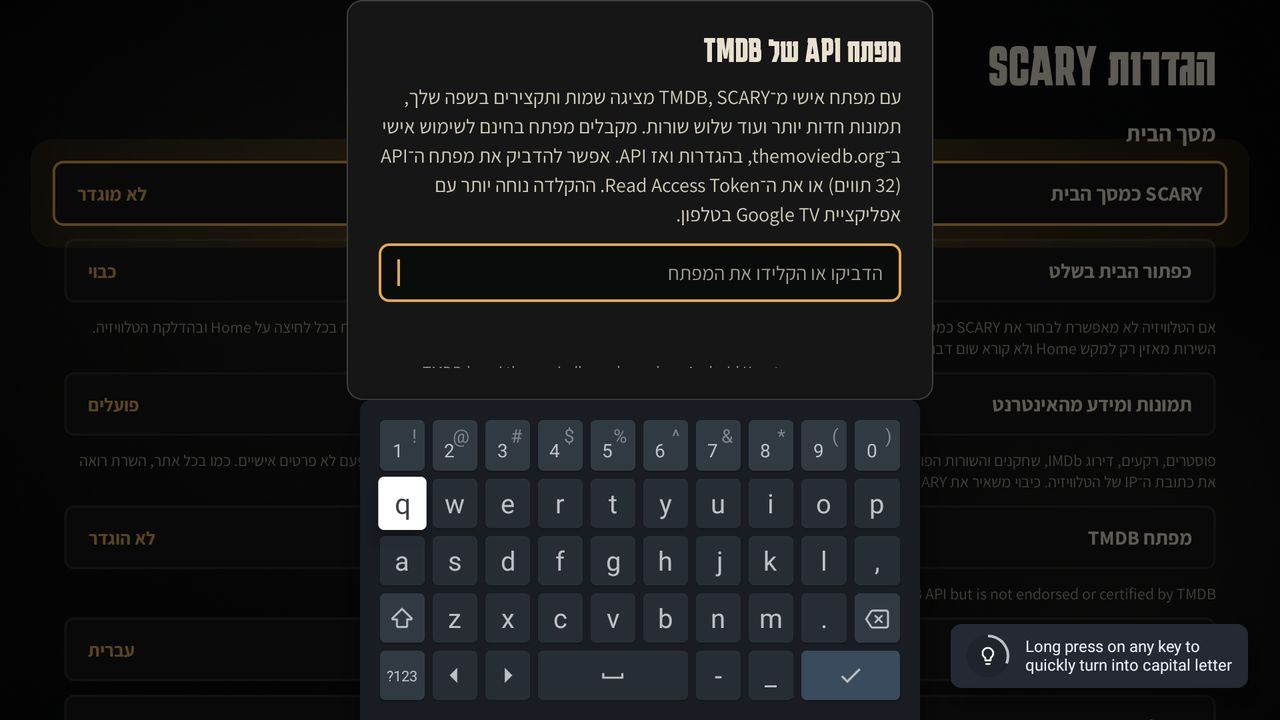
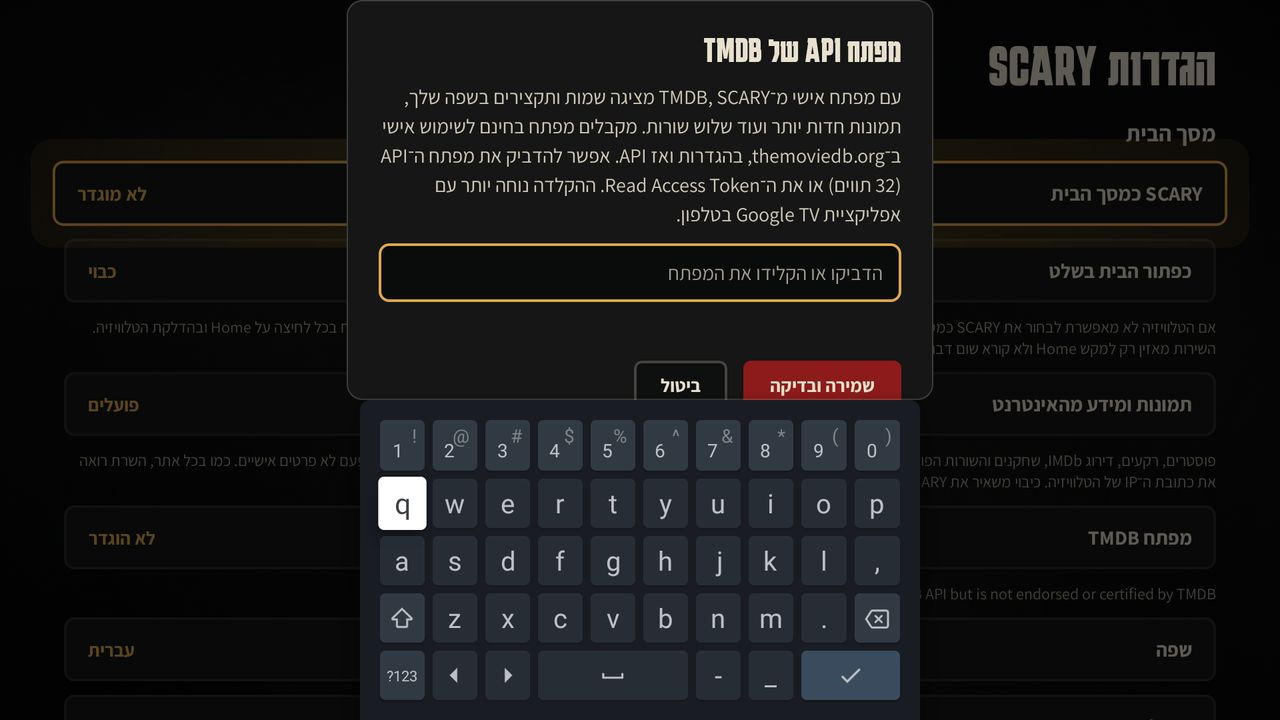
Four-language release notes on the download page; fresh TMDB screenshot
- The latest-build release page now describes SCARY and the install
  steps in English, Hebrew, Portuguese and Russian, with the build number
- README TMDB screenshot shows the dialog with buttons above the keyboard

Claude-Session: https://claude.ai/code/session_013G2Ls6pJPXFZHP3vByDV27

Changed region(s): [[0.7188, 0.8556, 1.0, 0.9778], [0.5, 0.4889, 0.7188, 0.5806]]

diff --git a/.github/release-notes.md b/.github/release-notes.md
@@ -1,0 +1,32 @@
+**SCARY build {{BUILD}}** · `{{SHA}}` · [README](https://github.com/diamondrubinny/Scary#readme)
+
+Download **scary.apk** below and install it on your Android TV. Builds are signed with the same key, so a new build installs over the previous one and keeps your settings.
+
+---
+
+### English
+Horror-themed home screen for Android TV: a curated horror and psychological-thriller library, real posters and backgrounds, Stremio and Google Play in one place, parental PIN, four languages.
+1. Allow installs from unknown sources (Settings → Device preferences → Security & restrictions).
+2. Install `scary.apk` (for example with "Send Files to TV" or `adb install scary.apk`).
+3. Open SCARY and choose **Make SCARY the home screen**. If the TV offers no choice, turn on **SCARY Home button** in Accessibility.
+
+### עברית
+מסך בית בעיצוב אימה ל־Android TV: מאגר סרטי אימה ומתח פסיכולוגי, פוסטרים ורקעים אמיתיים, Stremio וחנות Play במקום אחד, נעילת הורים, ארבע שפות.
+1. אפשרו התקנה ממקורות לא ידועים (הגדרות ← העדפות מכשיר ← אבטחה והגבלות).
+2. התקינו את `scary.apk` (למשל עם Send Files to TV או `adb install scary.apk`).
+3. פתחו את SCARY ובחרו **הגדרת SCARY כמסך הבית**. אם הטלוויזיה לא מציעה בחירה, הפעילו את **SCARY: כפתור הבית** בהגדרות הנגישות.
+
+### Português
+Tela inicial com clima de terror para Android TV: uma biblioteca selecionada de terror e suspense psicológico, pôsteres e fundos reais, Stremio e Google Play no mesmo lugar, PIN dos pais e quatro idiomas.
+1. Permita instalar de fontes desconhecidas (Configurações → Preferências do dispositivo → Segurança e restrições).
+2. Instale o `scary.apk` (por exemplo com o "Send Files to TV" ou `adb install scary.apk`).
+3. Abra o SCARY e escolha **Tornar o SCARY a tela inicial**. Se a TV não oferecer a opção, ative **SCARY: botão Home** em Acessibilidade.
+
+### Русский
+Главный экран для Android TV в стиле фильмов ужасов: подборка ужасов и психологических триллеров, настоящие постеры и фоны, Stremio и Google Play в одном месте, родительский PIN-код, четыре языка.
+1. Разрешите установку из неизвестных источников (Настройки → Настройки устройства → Безопасность и ограничения).
+2. Установите `scary.apk` (например, через «Send Files to TV» или `adb install scary.apk`).
+3. Откройте SCARY и выберите **Сделать SCARY главным экраном**. Если ТВ не предлагает выбор, включите **SCARY: кнопка «Домой»** в разделе спец. возможностей.
+
+---
+Debug build for personal use. This product uses the TMDB API but is not endorsed or certified by TMDB.
